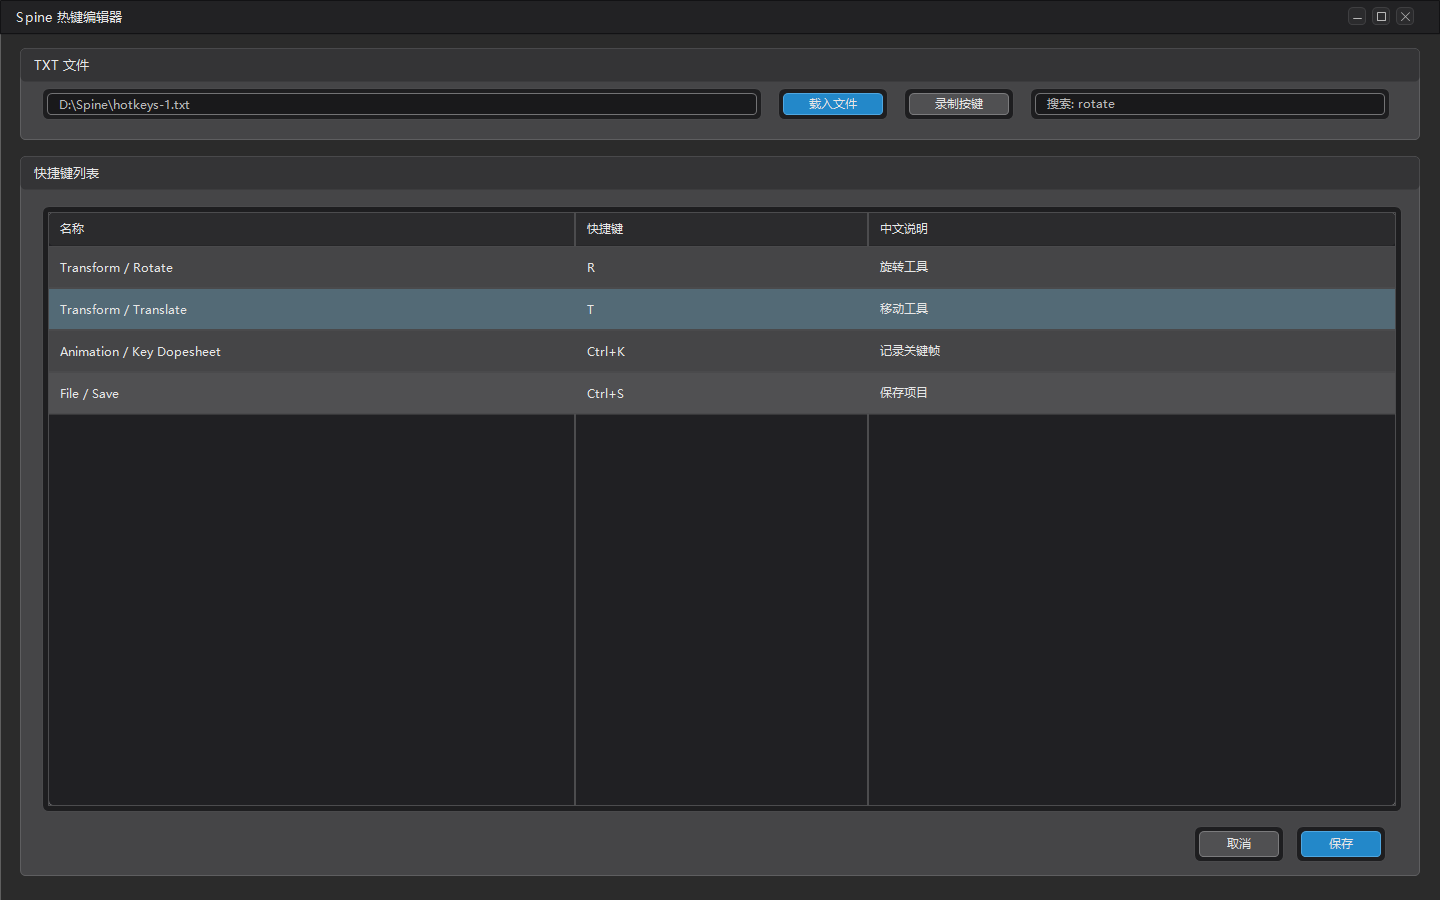
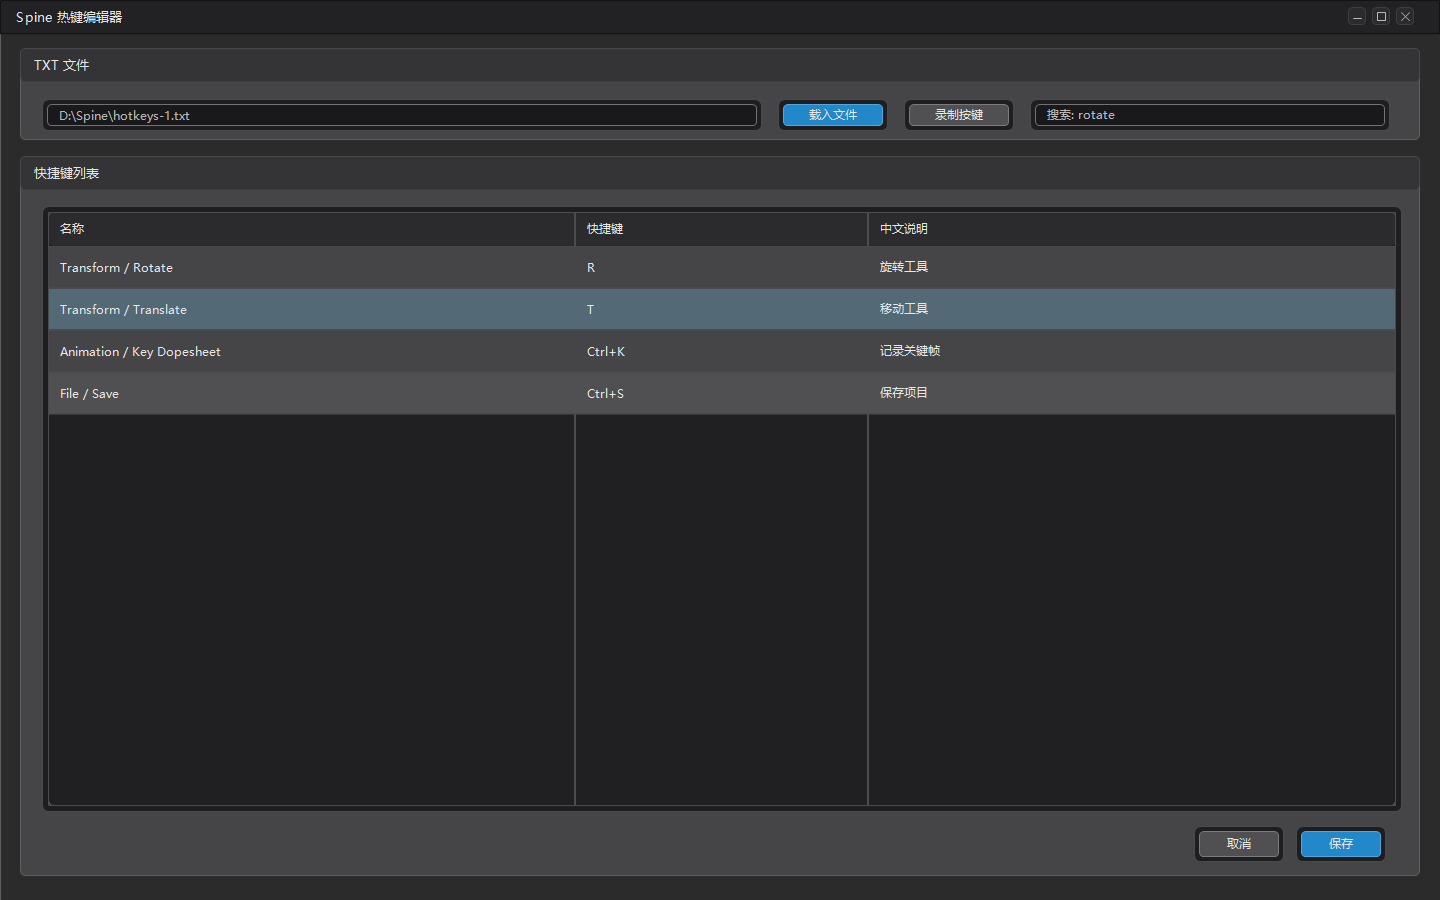
UI重构概览图细化

Changed region(s): [[0.0312, 0.0933, 0.9688, 0.1556]]

diff --git a/docs/ui-refactor/tools/MockupGenerator/Program.cs b/docs/ui-refactor/tools/MockupGenerator/Program.cs
@@ -130,23 +130,24 @@ internal static class Program
         Fill(g, r, App);
         DrawTitleBar(g, r, "序列编辑器");
         PanelBox(g, new Rectangle(24, 50, 1392, 148), "触发与绑定");
-        Label(g, "序列名称", 48, 92, 10, Muted); InputBox(g, new Rectangle(150, 84, 420, 34), "G5 常用绑定");
-        Label(g, "触发方式", 620, 92, 10, Muted); ComboBox(g, new Rectangle(720, 84, 240, 34), "键盘快捷键");
-        Label(g, "触发值", 48, 138, 10, Muted); ComboBox(g, new Rectangle(150, 130, 420, 34), "Ctrl+Shift+G");
-        Button(g, new Rectangle(590, 130, 116, 34), "录入按键", Blue);
-        Button(g, new Rectangle(720, 130, 92, 34), "清除", PanelAlt);
-        Label(g, "可选项", 850, 138, 10, Muted); ComboBox(g, new Rectangle(940, 130, 320, 34), "主窗口/播放");
+        Label(g, "序列名称", 48, 110, 10, Muted); InputBox(g, new Rectangle(150, 102, 420, 34), "G5 常用绑定");
+        Label(g, "触发快捷键", 48, 156, 10, Muted); InputBox(g, new Rectangle(150, 148, 420, 34), "Ctrl+Shift+G");
+        Button(g, new Rectangle(590, 148, 116, 34), "键盘录入", Blue);
+        Button(g, new Rectangle(720, 148, 104, 34), "虚拟按键", PanelAlt);
+        Button(g, new Rectangle(838, 148, 82, 34), "清除", PanelAlt);
+        Label(g, "关联虚拟按键", 850, 110, 10, Muted); InputBox(g, new Rectangle(964, 102, 320, 34), "主窗口/播放");
 
         PanelBox(g, new Rectangle(24, 216, 1392, 660), "步骤列表");
-        ToolStrip(g, new Rectangle(44, 262, 900, 36), ["添加单键", "添加组合键", "添加文本", "录制按键", "删除", "上移", "下移"]);
+        ToolStrip(g, new Rectangle(44, 262, 720, 36), ["添加步骤", "删除步骤", "录制按键", "上移", "下移"]);
         Table(g, new Rectangle(44, 314, 1372, 520),
-            ["序号", "类型", "按键/文本", "延迟(ms)", "长按(ms)", "复制"],
+            ["类型", "按键/文本", "延迟(ms)", "触发方式", "按压时长(ms)", "操作"],
             [
-                ["1", "组合键", "Ctrl+S", "80", "-", "复制"],
-                ["2", "单键", "F5", "120", "-", "复制"],
-                ["3", "文本", "skin_G5", "60", "-", "复制"],
-                ["4", "组合键", "Win+E", "100", "-", "复制"]
-            ]);
+                ["组合键", "Ctrl+S", "80", "点按", "0", "复制"],
+                ["单键", "F5", "120", "点按", "0", "复制"],
+                ["文本", "skin_G5", "60", "点按", "0", "复制"],
+                ["组合键", "Win+E", "100", "长按", "300", "复制"]
+            ],
+            [0.9f, 1.4f, 0.75f, 0.9f, 1.0f, 0.55f]);
         Button(g, new Rectangle(1194, 838, 90, 36), "取消", PanelAlt);
         Button(g, new Rectangle(1296, 838, 90, 36), "确定", Blue);
     }
@@ -167,10 +168,10 @@ internal static class Program
         Fill(g, r, App);
         DrawTitleBar(g, r, "Spine 热键编辑器");
         PanelBox(g, new Rectangle(20, 48, 1400, 92), "TXT 文件");
-        InputBox(g, new Rectangle(42, 88, 720, 32), @"D:\Spine\hotkeys-1.txt");
-        Button(g, new Rectangle(778, 88, 110, 32), "载入文件", Blue);
-        Button(g, new Rectangle(904, 88, 110, 32), "录制按键", PanelAlt);
-        InputBox(g, new Rectangle(1030, 88, 360, 32), "搜索: rotate");
+        InputBox(g, new Rectangle(42, 99, 720, 32), @"D:\Spine\hotkeys-1.txt");
+        Button(g, new Rectangle(778, 99, 110, 32), "载入文件", Blue);
+        Button(g, new Rectangle(904, 99, 110, 32), "录制按键", PanelAlt);
+        InputBox(g, new Rectangle(1030, 99, 360, 32), "搜索: rotate");
 
         PanelBox(g, new Rectangle(20, 156, 1400, 720), "快捷键列表");
         Table(g, new Rectangle(42, 206, 1360, 606),
@@ -245,21 +246,21 @@ internal static class Program
     {
         Fill(g, r, App);
         DrawTitleBar(g, r, "文件批量复制");
-        PanelBox(g, new Rectangle(24, 54, 1392, 176), "源文件");
+        PanelBox(g, new Rectangle(24, 54, 1392, 236), "源文件");
         ToolStrip(g, new Rectangle(44, 92, 520, 34), ["选择文件", "移除选中", "清空列表"]);
-        Table(g, new Rectangle(44, 138, 1368, 82), ["文件名", "路径"], [["201.png", @"source\201.png"], ["zzps-skin.json", @"source\zzps-skin.json"]]);
-        PanelBox(g, new Rectangle(24, 246, 1392, 470), "目标路径");
-        InputBox(g, new Rectangle(116, 300, 600, 32), @"D:\exports");
-        Label(g, "前缀", 46, 307, 10, Muted);
-        Button(g, new Rectangle(730, 300, 92, 32), "选择文件夹", PanelAlt);
-        TextArea(g, new Rectangle(116, 346, 600, 136), "targets1\ntargets2\ntargets3\ntargets4\ntargets5");
-        Label(g, "中间", 46, 354, 10, Muted);
-        Button(g, new Rectangle(730, 346, 92, 32), "添加行", PanelAlt);
-        Button(g, new Rectangle(730, 388, 92, 32), "删除行", PanelAlt);
-        InputBox(g, new Rectangle(116, 500, 600, 32), "images");
-        Label(g, "后缀", 46, 507, 10, Muted);
-        Button(g, new Rectangle(730, 542, 92, 32), "清理历史", PanelAlt);
-        Table(g, new Rectangle(880, 300, 500, 250), ["预览目标"], [[@"D:\exports\targets1\images"], [@"D:\exports\targets2\images"], [@"D:\exports\targets3\images"]]);
+        Table(g, new Rectangle(44, 138, 1368, 136), ["文件名", "路径"], [["201.png", @"source\201.png"], ["zzps-skin.json", @"source\zzps-skin.json"], ["run.atlas", @"source\run.atlas"]]);
+        PanelBox(g, new Rectangle(24, 306, 1392, 410), "目标路径");
+        InputBox(g, new Rectangle(116, 354, 600, 32), @"D:\exports");
+        Label(g, "前缀", 46, 361, 10, Muted);
+        Button(g, new Rectangle(730, 354, 92, 32), "选择文件夹", PanelAlt);
+        TextArea(g, new Rectangle(116, 400, 600, 116), "targets1\ntargets2\ntargets3\ntargets4");
+        Label(g, "中间", 46, 408, 10, Muted);
+        Button(g, new Rectangle(730, 400, 92, 32), "添加行", PanelAlt);
+        Button(g, new Rectangle(730, 442, 92, 32), "删除行", PanelAlt);
+        InputBox(g, new Rectangle(116, 532, 600, 32), "images");
+        Label(g, "后缀", 46, 539, 10, Muted);
+        Button(g, new Rectangle(730, 574, 92, 32), "清理历史", PanelAlt);
+        Table(g, new Rectangle(880, 354, 500, 220), ["预览目标"], [[@"D:\exports\targets1\images"], [@"D:\exports\targets2\images"], [@"D:\exports\targets3\images"]]);
         Button(g, new Rectangle(24, 734, 1368, 42), "开始复制", Green);
         Label(g, "复制中: zzps-skin.json -> targets4", 24, 798, 10, Text, 1368, align: StringAlignment.Center);
         Progress(g, new Rectangle(24, 824, 1368, 26), .4f, "4/10");
@@ -594,13 +595,14 @@ internal static class Program
             ("删除全部", danger),
             ("复制序列", edit),
             ("暂停全部", edit),
-            ("Spine 热键", spine),
+            ("Spine热键编辑", spine),
             ("释放", danger),
-            ("VK 开/关", vk),
-            ("VK 管理", vk),
-            ("批量重命名", batch),
+            ("开启虚拟按键", vk),
+            ("关闭虚拟按键", edit),
+            ("管理虚拟按键", vk),
+            ("批量重命名/spine解包整理", batch),
             ("批量复制", copy),
-            ("CLI", cli),
+            ("CLI批量合并/导出", cli),
             ("导入", edit),
             ("导出", edit)
         };
@@ -608,15 +610,21 @@ internal static class Program
         var x = rect.X + 6;
         foreach (var item in items)
         {
-            var w = Math.Max(58, item.Text.Length * 13 + 24);
-            if (item.Text is "复制序列" or "Spine 热键" or "批量重命名")
-                w += 10;
+            var w = EstimateToolbarButtonWidth(item.Text);
             var available = rect.Right - x - 6;
             if (available < 50) break;
             w = Math.Min(w, available);
             Button(g, new Rectangle(x, rect.Y + 5, w, rect.Height - 10), item.Text, item.Color);
             x += w + 6;
         }
+    }
+
+    private static int EstimateToolbarButtonWidth(string text)
+    {
+        var width = 24;
+        foreach (var ch in text)
+            width += ch < 128 ? 7 : 12;
+        return Math.Max(52, width);
     }
 
     private static void CheckOption(Graphics g, Rectangle rect, string label, bool isChecked, Color color)

diff --git a/docs/ui-refactor/resource-overview.md b/docs/ui-refactor/resource-overview.md
@@ -1,0 +1,110 @@
+# UI 美术资源概览
+
+本文用于指导后续真实 UI 资源制作与替换。功能、按钮、菜单项、表格列和事件绑定必须以 `KeyMacro/Forms` 现有代码为准；本文只定义美术资源和布局替换范围。
+
+## 基本原则
+
+- 不用概览图新增、删除或合并功能入口。
+- 默认尺寸参考 `mockups/*.png`，但真实控件数量以代码为准。
+- 资源优先服务可读性：列表、输入框、按钮、菜单必须能明显区分。
+- 优先用 WinForms 统一绘制/主题代码实现通用控件外观；仅在确实需要状态图时制作 PNG。
+- `VirtualKeyWindow` 浮窗本体和 `KeyMacro/skins/*` 暂不替换，避免破坏现有 SKIN 逻辑。
+
+## 建议资源结构
+
+后续进入实现时，建议新增独立资源目录，避免混入 VK 皮肤目录：
+
+```text
+KeyMacro/
+  assets/
+    ui/
+      buttons/
+      panels/
+      inputs/
+      progress/
+      menus/
+      dialogs/
+      icons/
+```
+
+如实际实现选择纯 GDI+ 绘制，可保留该目录只放图标、特殊纹理和文档样张。
+
+## 通用控件资源
+
+| 资源类别 | 建议形式 | 状态 | 用途 | 备注 |
+| --- | --- | --- | --- | --- |
+| 按钮底座 | 代码绘制或 9-slice PNG | normal / hover / pressed / disabled | 所有普通按钮 | 深色圆角外框，内部按钮区更亮 |
+| 主操作按钮 | 代码绘制 | normal / hover / pressed / disabled | 保存、确认、导出、开始执行 | 蓝色强调，不改变按钮文本 |
+| 危险按钮 | 代码绘制 | normal / hover / pressed / disabled | 删除、删除全部、取消全部、释放 | 红色或红边警示 |
+| 勾选框 | 代码绘制 | unchecked / checked / disabled | 启用、实验功能、后缀处理、导出配置 | 需要和按钮区分 |
+| 输入框 | 代码绘制 | normal / focused / readonly / disabled | 路径、搜索、名称、参数 | 文本垂直居中，边界明显 |
+| 下拉框 | 代码绘制 | normal / focused / opened / disabled | ComboBox 类选项 | 右侧箭头区独立绘制 |
+| 表格/列表 | 代码绘制样式 | normal / selected / disabled | DataGridView、ListView、ListBox | 表头、选中行、网格线统一 |
+| Tab | 代码绘制样式 | inactive / active | CLI、ReNameTool | 活动 Tab 使用蓝色细线 |
+| 进度条 | `TextProgressBar` 样式 | idle / running / complete / error | 批量复制、CLI、ReNameTool | 当前文件文字在上方，进度在条内 |
+
+## 窗口级资源
+
+| 窗口 | 默认尺寸参考 | 资源重点 | 功能核准注意 |
+| --- | --- | --- | --- |
+| MainForm | `01-main-window.png` | 工具栏、主表格、状态栏 | 保留真实按钮：开启/关闭/管理虚拟按键均独立存在 |
+| SequenceEditor | `02-sequence-editor.png` | 顶部表单、步骤工具栏、步骤表格 | 保留真实一个“添加步骤”按钮，类型在表格列选择 |
+| HotkeyRecorderForm | `03-hotkey-recorder.png` | 居中录制态、按键显示框 | 不改变录制规则 |
+| SpineHotkeyEditor | `04-spine-hotkey-editor.png` | 路径区、搜索、三列表格 | 保留真实列：快捷键名称、快捷键、功能说明 |
+| VkWindowManager | `05-vk-manager.png` | 表格、底部新增/关闭按钮 | 新增和关闭在底部，保存即时逻辑不加按钮 |
+| BatchCopyWindow | `06-batch-copy.png` | 源列表、三段路径、预览、进度 | 保留浏览前缀、清理历史等真实入口 |
+| SourceFilePicker | `07-source-file-picker.png` | 缩略图网格、选择态 | 系统文件/目录选择仍原生 |
+| ConflictDialog | `08-conflict-dialog.png` | 警示条、冲突列表、危险按钮 | 保留覆盖/跳过/取消全部/打开文件夹 |
+| BatchCliWindow | `09/10-cli-*.png` | 双 Tab、双列表、配置选项、进度 | 保留取消 CLI、实验功能、导出配置选项 |
+| ReNameTool | `12/13/14-rename-tool-*.png` | 三个 Tab、大列表、配置区、进度 | 保留真实按钮和 checkbox |
+| InputDialog | `15-input-dialog.png` | 输入框、确认取消 | 可复用到 VK 菜单输入 |
+| SubfolderSelectDialog | `16-subfolder-select.png` | 搜索过滤、勾选列表、底部按钮 | 保留全选/全不选/反选 |
+
+## 菜单与弹窗资源
+
+| 资源类别 | 覆盖对象 | 建议形式 | 注意 |
+| --- | --- | --- | --- |
+| ContextMenuStrip 主题 | 托盘菜单、VK 右键菜单 | 代码绘制 renderer | 菜单项内容以代码为准 |
+| 核心确认弹窗 | 删除、导入、错误、成功 | 自定义 Form 或统一 helper | 替代 MessageBox 前需逐个核准按钮语义 |
+| VK 菜单输入弹窗 | 改名、循环延迟、间距、缩放 | `InputDialog` 风格 | 不改 `VirtualKeyWindow` 本体和 SKIN |
+| 警告条 | 冲突、危险确认、实验功能 | 代码绘制 | 不能只靠颜色表达危险 |
+
+## 图标资源
+
+图标不是第一优先级；第一阶段先保证布局和控件边界清楚。后续可补充小图标：
+
+| 图标 | 用途 | 状态 |
+| --- | --- | --- |
+| add/edit/delete/delete-all | 主窗口和列表操作 | normal / disabled |
+| copy/pause/release | 序列操作 | normal / disabled |
+| spine/vk/cli/batch | 模块入口 | normal / disabled |
+| folder/file/search/refresh | 文件路径与列表工具 | normal / disabled |
+| warning/success/error | 弹窗提示 | static |
+
+## 明确排除
+
+- 不替换 `KeyMacro/skins/SpineSkin/*`。
+- 不重绘 `VirtualButtonWidget` 的按钮资源。
+- 不改变 `VirtualKeyWindow` 的窗口尺寸算法、缩放算法、方向算法和按钮状态逻辑。
+- 不自定义系统 `OpenFileDialog`、`SaveFileDialog`、`FolderBrowserDialog`。
+
+## 制作顺序
+
+1. 公共主题 token：颜色、字体、边框、圆角、控件高度。
+2. 通用按钮、输入框、表格、Tab、进度条绘制。
+3. MainForm 与 SequenceEditor，先覆盖最高频窗口。
+4. BatchCopyWindow、BatchCliWindow、ReNameTool 批量工具。
+5. SpineHotkeyEditor、VkWindowManager、SourceFilePicker、SubfolderSelectDialog。
+6. 自定义菜单与核心弹窗。
+7. 图标和额外 PNG 状态图。
+
+## 冲突处理
+
+发现以下任一情况，必须暂停实现并让用户确认：
+
+- 概览图比代码多了功能入口。
+- 概览图比代码少了功能入口。
+- 按钮名称和代码名称不一致，且无法判断是否只是简称。
+- 多个真实按钮在概览图中被合并。
+- 一个真实按钮在概览图中被拆成多个入口。
+- 默认尺寸按图调整后会导致真实控件隐藏或不可操作。

diff --git a/docs/ui-refactor/overview.md b/docs/ui-refactor/overview.md
@@ -4,6 +4,8 @@
 
 参考图：仓库根目录 `UI美术风格参考.png`。只参考风格，不参考布局。
 
+后续真实资源制作与替换范围见 `resource-overview.md`。实际实现时以 `KeyMacro/Forms` 现有代码为功能真相源，概览图只决定默认尺寸、布局方向和美术风格。
+
 ## 视觉规范
 
 ![Style Board](mockups/00-style-board.png)
@@ -22,6 +24,7 @@
 ![Main Window](mockups/01-main-window.png)
 
 - 主工具栏保持所有现有入口。
+- 入口名称和数量按真实代码保留，例如开启虚拟按键、关闭虚拟按键、管理虚拟按键是三个独立按钮。
 - 宏序列表格强化扫描效率。
 - 状态栏保留配置、VK、热键等运行状态。
 
@@ -29,8 +32,9 @@
 
 ![Sequence Editor](mockups/02-sequence-editor.png)
 
-- 顶部集中显示序列名称、键盘热键、VK 绑定和目标软件。
-- 步骤列表保持表格主导，操作按钮集中在步骤工具栏。
+- 顶部集中显示序列名称、触发快捷键和关联虚拟按键，功能入口按真实代码保留为“键盘录入 / 虚拟按键 / 清除”。
+- 步骤列表保持表格主导，列名按真实代码保留：类型、按键/文本、延迟、触发方式、按压时长、操作。
+- 步骤工具栏按真实代码保留为“添加步骤 / 删除步骤 / 录制按键 / 上移 / 下移”。
 - 确认/取消按钮统一放在右下角。
 
 ![Hotkey Recorder](mockups/03-hotkey-recorder.png)
@@ -43,7 +47,7 @@
 ![Spine Hotkey Editor](mockups/04-spine-hotkey-editor.png)
 
 - 文件路径、载入、录制、搜索集中在顶部。
-- 表格分组、快捷键、中文说明、状态列统一暗色风格。
+- 表格按真实代码保留为快捷键名称、快捷键、功能说明三列，分组文字并入名称内容展示。
 
 ## 虚拟按键管理
 

diff --git a/docs/ui-refactor/plan.md b/docs/ui-refactor/plan.md
@@ -4,7 +4,17 @@
 
 本目录记录 `KeyMacro` 的项目级 UI 重构计划。它不属于代码审核问题台账，不写入 `docs/audit.md`；只有在 UI 重构过程中发现明确功能缺陷时，才另行进入 audit。
 
-本轮只建立计划、规范、界面清单和高保真静态概览图，不修改主程序代码，不替换真实美术资源。
+已完成计划、规范、界面清单和高保真静态概览图。进入实际 UI 制作与替换阶段时，必须以现有代码为功能真相源，概览图只作为尺寸、布局方向和美术风格参考。
+
+## 实施守则
+
+- 功能优先：真实功能、按钮、菜单、表格列、事件绑定一律以当前代码为准。
+- 只调整布局、默认尺寸、颜色、边框、字体、间距、控件绘制和可替换美术资源；不调整业务逻辑和功能语义。
+- 概览图与真实代码冲突时，先保留真实代码内容，再记录冲突点。
+- 若出现功能缺失、功能增多、按钮名称不确定、菜单项含义不确定、多个入口能否合并不确定，必须先让用户确认。
+- `VirtualKeyWindow` 虚拟按钮浮窗本体、按钮图片、布局算法和 SKIN 系统默认不纳入普通 UI 替换；只处理其右键菜单和相关输入/确认弹窗。
+- 每个窗口默认尺寸可参考对应概览图调整，但不得因此隐藏、删除或合并真实功能入口。
+- 每批替换后需要视觉检查和基础功能入口检查，再继续下一批。
 
 ## 设计目标
 
